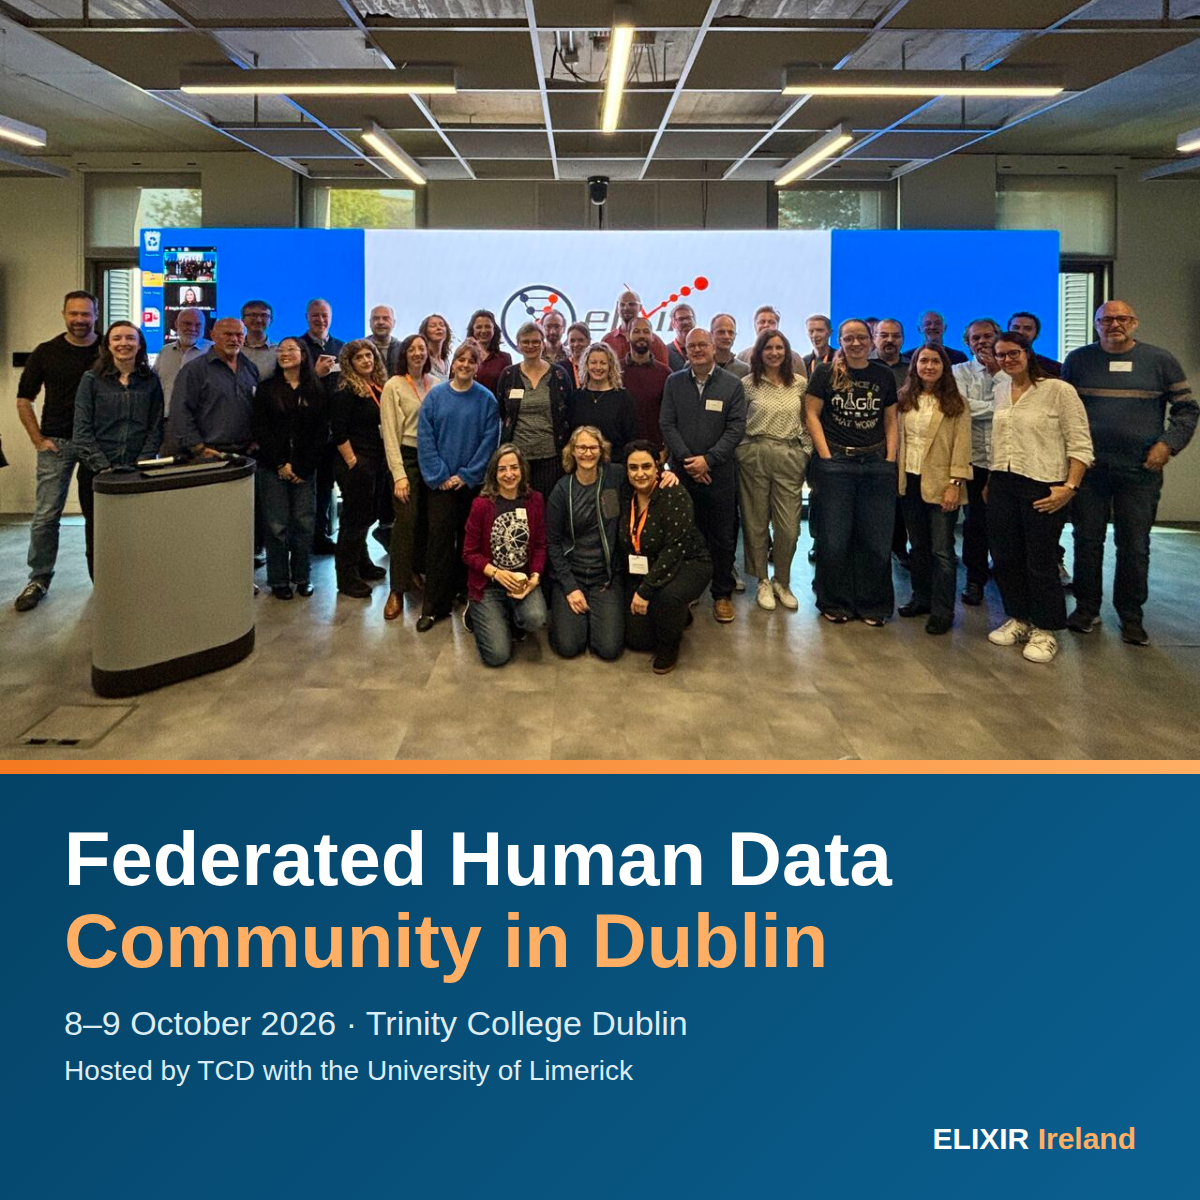
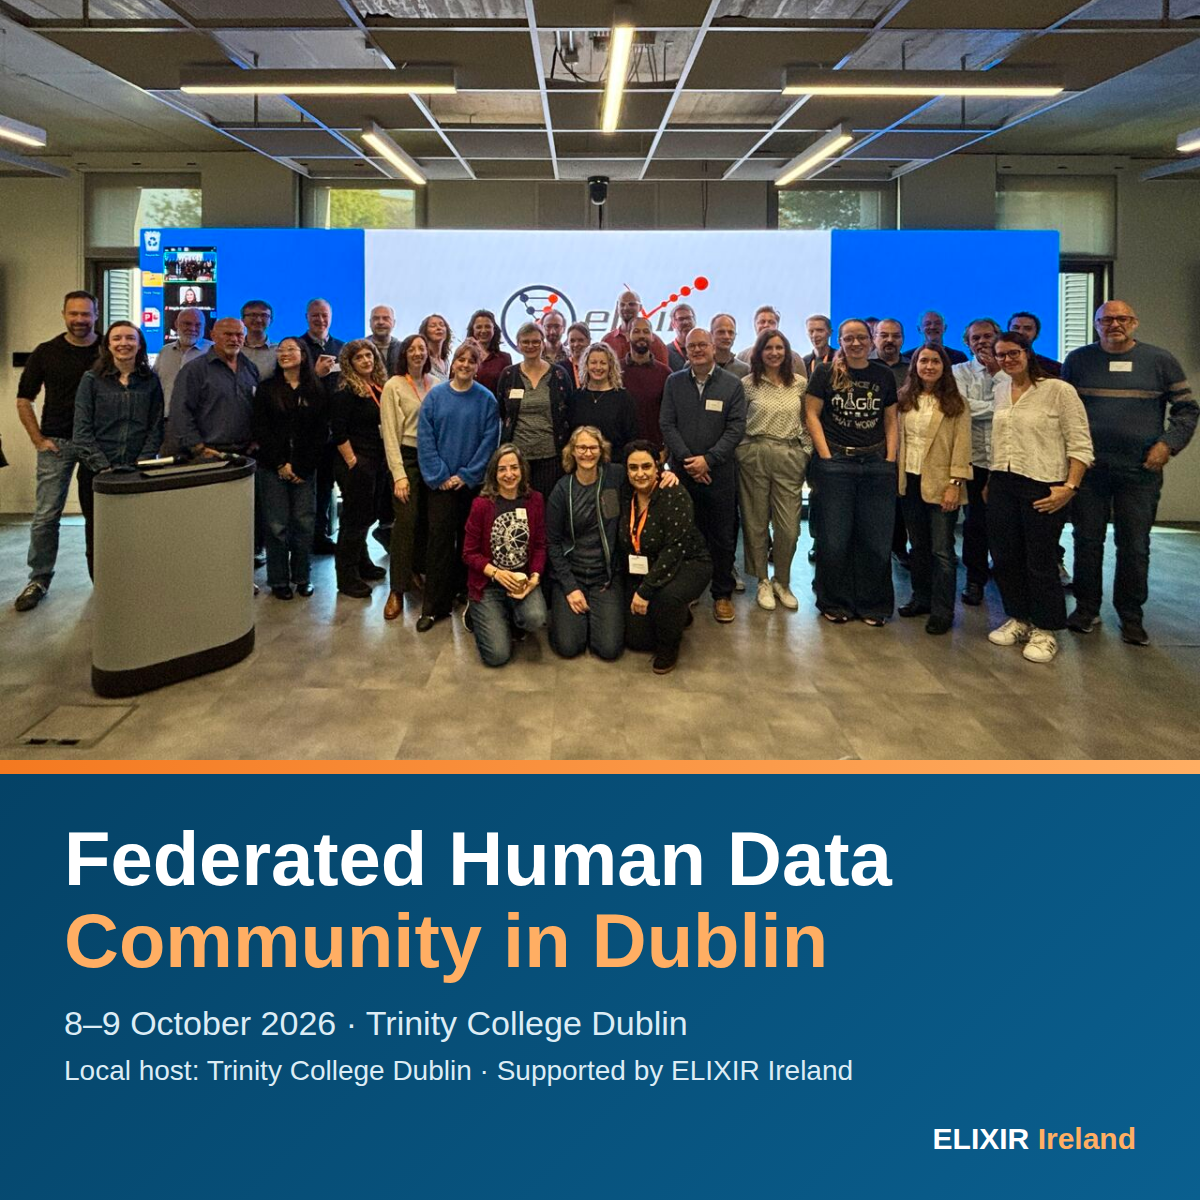
Rebalance FHD Dublin story towards the TCD local host and add inline links
Lead with Máire Ní Leathlobhair as local host, describe UL's role as
coordination support, credit Tricia English, add special thanks to the
Community co-leads, ELIXIR Hub, TCD and UL, and link key items inline.

Changed region(s): [[0.0617, 0.8633, 0.7092, 0.925]]

diff --git a/news/fhd-community-meeting-dublin-2026/index.html b/news/fhd-community-meeting-dublin-2026/index.html
@@ -1,14 +1,14 @@
 ---
 layout: default
 title: ELIXIR Federated Human Data Community meets in Dublin - ELIXIR Ireland
-description: Trinity College Dublin hosted the 2026 ELIXIR Federated Human Data Community meeting on 8–9 October, with Máire Ní Leathlobhair (TCD) as local host and the Culhane lab at the University of Limerick supporting the organisation, in the same week as the final GDI General Assembly in Dublin.
+description: Trinity College Dublin hosted the 2026 ELIXIR Federated Human Data Community meeting on 8–9 October, with Máire Ní Leathlobhair (TCD) as local host and support from ELIXIR Ireland colleagues at the University of Limerick and the ELIXIR Hub, in the same week as the final GDI General Assembly in Dublin.
 ---
 
 <section class="page-hero">
   <div class="page-hero-content">
     <img src="/assets/images/fhd-community-meeting-dublin-2026.jpg" alt="Participants at the ELIXIR Federated Human Data Community meeting at Trinity College Dublin, October 2026" style="max-width: 700px; width: 100%; height: auto; border-radius: 10px; margin-bottom: 1.25rem;" />
     <h1>ELIXIR Federated Human Data Community meets in Dublin</h1>
-    <p class="lead">Trinity College Dublin hosted the 2026 ELIXIR Federated Human Data Community meeting on 8–9 October, a joint effort between Trinity and the University of Limerick that brought Europe's human data community to Ireland.</p>
+    <p class="lead">Trinity College Dublin hosted the 2026 ELIXIR Federated Human Data Community meeting on 8–9 October, bringing Europe's human data community to Ireland with Máire Ní Leathlobhair as local host.</p>
   </div>
 </section>
 
@@ -21,27 +21,26 @@ description: Trinity College Dublin hosted the 2026 ELIXIR Federated Human Data 
 
           <p style="margin-bottom: 0.75rem; color: #666; font-weight: 600;">13 October 2026</p>
 
-          <p>The ELIXIR Federated Human Data (FHD) Community held its 2026 meeting at Trinity Business School, Trinity College Dublin, on 8–9 October, with colleagues from across Europe attending in person and online. The Community works to build a federated ecosystem of interoperable services so that sensitive human data can be shared for research across borders while remaining under national governance.</p>
+          <p>The <a href="https://elixir-europe.org/communities/human-data" target="_blank" rel="noopener">ELIXIR Federated Human Data (FHD) Community</a> held its <a href="https://elixir-europe.org/events/fhdc-meeting-2026" target="_blank" rel="noopener">2026 meeting</a> at Trinity Business School, Trinity College Dublin (TCD), on 8–9 October, with colleagues from across Europe attending in person and online. The Community works to build a federated ecosystem of interoperable services so that sensitive human data can be shared for research across borders while remaining under national governance.</p>
 
-          <p>Over two days, participants shared updates on projects across Europe and internationally, with open discussions on the Federated European Genome-phenome Archive (Federated EGA), compliance in light of the planned Genome European Digital Infrastructure Consortium (Genome EDIC), and funding opportunities.</p>
+          <p>Over two days, participants shared updates on projects across Europe and internationally, with open discussions on the <a href="https://ega-archive.org/about/projects-and-funders/federated-ega/" target="_blank" rel="noopener">Federated European Genome-phenome Archive (Federated EGA)</a>, compliance in light of the planned Genome European Digital Infrastructure Consortium (Genome EDIC), and funding opportunities.</p>
 
           <!-- Hosts -->
-          <h2 style="margin-top: 2.5rem; color: #023452; font-size: 1.3rem; border-top: 2px solid #e9ecef; padding-top: 1.5rem;">Hosted by Trinity, supported by Limerick</h2>
+          <h2 style="margin-top: 2.5rem; color: #023452; font-size: 1.3rem; border-top: 2px solid #e9ecef; padding-top: 1.5rem;">Hosted at Trinity College Dublin, supported by ELIXIR Ireland</h2>
 
-          <p>The meeting was a collaboration between two ELIXIR Ireland member institutions, and both were essential to it.</p>
-
-          <div style="display: grid; grid-template-columns: repeat(auto-fit, minmax(260px, 1fr)); gap: 1.25rem; margin: 1.5rem 0;">
-            <div style="background: #f4f9fc; border-left: 4px solid #023452; padding: 1.25rem 1.5rem; border-radius: 8px;">
-              <p style="margin: 0 0 0.5rem; font-weight: 600; color: #023452;">Local host: Trinity College Dublin</p>
-              <p style="margin: 0;"><strong>Máire Ní Leathlobhair</strong>, Trinity's representative on the ELIXIR Ireland Management Board, was local host, welcoming the Community to Trinity Business School in the heart of Dublin.</p>
-            </div>
-            <div style="background: #fff7f0; border-left: 4px solid #f47920; padding: 1.25rem 1.5rem; border-radius: 8px;">
-              <p style="margin: 0 0 0.5rem; font-weight: 600; color: #023452;">Organisation: University of Limerick</p>
-              <p style="margin: 0;">The lab of <strong>Aedín Culhane</strong>, ELIXIR Ireland Head of Node, supported the organisation of the meeting, with <strong>Katie Cremin</strong> and colleagues looking after the planning and logistics that made the two days run smoothly.</p>
-            </div>
+          <div style="background: #f4f9fc; border-left: 4px solid #023452; padding: 1.25rem 1.5rem; border-radius: 8px; margin: 1.5rem 0;">
+            <p style="margin: 0 0 0.5rem; font-weight: 600; color: #023452;">Local host: Máire Ní Leathlobhair, TCD</p>
+            <p style="margin: 0;"><strong>Máire Ní Leathlobhair</strong>, who recently joined the <a href="/about/">ELIXIR Ireland Management Board</a> as TCD representative, was local host and led the meeting on the ground: securing the venue, managing the bookings and welcoming the Community to Dublin.</p>
           </div>
 
-          <p>Hosting in Dublin also made it easy for Irish researchers and infrastructure teams to take part in person, strengthening the national voice in a Community that shapes how human genomic and health data are shared across Europe. Our thanks to the FHD Community co-leads and to ELIXIR Europe for bringing the meeting to Ireland.</p>
+          <p>Máire worked on the organisation with ELIXIR Ireland colleagues at the University of Limerick (UL), in conjunction with the <a href="https://elixir-europe.org/" target="_blank" rel="noopener">ELIXIR Hub</a>. <strong>Katie Cremin</strong> and <strong>Tricia English</strong>, from the lab of ELIXIR Ireland Head of Node Aedín Culhane, provided coordination support to TCD, including the financial processing of bookings.</p>
+
+          <p>Hosting in Dublin also made it easy for Irish researchers and infrastructure teams to take part in person, strengthening the national voice in a Community that shapes how human genomic and health data are shared across Europe.</p>
+
+          <div style="background: #fff7f0; border-left: 4px solid #f47920; padding: 1.25rem 1.5rem; border-radius: 8px; margin: 1.5rem 0;">
+            <p style="margin: 0 0 0.5rem; font-weight: 600; color: #023452;">Special thanks</p>
+            <p style="margin: 0;">To the FHD Community co-leads, the ELIXIR Hub, and everyone at TCD and UL whose work made the meeting a success.</p>
+          </div>
 
           <!-- Wider week -->
           <h2 style="margin-top: 2.5rem; color: #023452; font-size: 1.3rem; border-top: 2px solid #e9ecef; padding-top: 1.5rem;">A big week for genomic data in Dublin</h2>
@@ -51,11 +50,11 @@ description: Trinity College Dublin hosted the 2026 ELIXIR Federated Human Data 
             <p style="margin: 0; padding: 0.6rem 1rem; font-size: 0.85rem; color: #777; font-style: italic; background: #fafafa;">Participants at the final GDI General Assembly, held in Dublin in the same week. Photo: GDI.</p>
           </div>
 
-          <p>The FHD meeting was timed alongside the final General Assembly of the European <strong>Genomic Data Infrastructure (GDI)</strong> project, which also met in Dublin that week, during Ireland's Presidency of the Council of the European Union. The GDI General Assembly was organised by the GDI project. There, the 1+ Million Genomes (1+MG) infrastructure deployment pillar demonstrated national deployment and connectivity using Genome of Europe data, cancer use case data and synthetic data, and each GDI node country presented its progress towards connecting to the GDI user portal and its aims to March 2027.</p>
+          <p>The FHD meeting was timed alongside the final General Assembly of the <a href="https://gdi.onemilliongenomes.eu/" target="_blank" rel="noopener">European Genomic Data Infrastructure (GDI)</a> project, which also met in Dublin that week, during <a href="https://irish-presidency.consilium.europa.eu/en/" target="_blank" rel="noopener">Ireland's Presidency of the Council of the European Union</a>. The GDI General Assembly was organised by the GDI project. There, the <a href="https://digital-strategy.ec.europa.eu/en/policies/1-million-genomes" target="_blank" rel="noopener">1+ Million Genomes (1+MG)</a> infrastructure deployment pillar demonstrated national deployment and connectivity using Genome of Europe data, cancer use case data and synthetic data, and each GDI node country presented its progress towards connecting to the GDI user portal and its aims to March 2027.</p>
 
-          <p>Ireland takes part through GDI Ireland, co-led by RCSI and UCD with the University of Limerick and Maynooth University, with the Culhane lab at UL working on the deployment of the Irish node.</p>
+          <p>Ireland takes part through GDI Ireland, co-led by RCSI and UCD with UL and Maynooth University, with the Culhane lab at UL working on the deployment of the Irish node.</p>
 
-          <p>The week also saw the publication of the white paper <em>Federated EGA in the European and Global Human Data Ecosystem</em>, which sets out a vision for the Federated EGA and its role in the fast-developing European and global ecosystem for human genomic and health data.</p>
+          <p>The week also saw the publication of the white paper <a href="https://elixir-europe.org/news/FEGA-whitepaper-2026" target="_blank" rel="noopener"><em>Federated EGA in the European and Global Human Data Ecosystem</em></a>, which sets out a vision for the Federated EGA and its role in the fast-developing European and global ecosystem for human genomic and health data.</p>
 
           <div style="background: #f8f9fa; border-left: 4px solid #235C2A; padding: 1.25rem 1.5rem; border-radius: 8px; margin: 2rem 0;">
             <p style="margin: 0;">ELIXIR Ireland is proud to have helped bring the Federated Human Data Community to Dublin, and looks forward to building on the week's conversations with partners across Ireland and Europe.</p>
@@ -63,6 +62,7 @@ description: Trinity College Dublin hosted the 2026 ELIXIR Federated Human Data 
 
           <div style="margin-top: 2rem; display: flex; gap: 1rem; flex-wrap: wrap;">
             <a href="https://elixir-europe.org/communities/human-data" target="_blank" rel="noopener" class="btn btn-primary">ELIXIR FHD Community</a>
+            <a href="https://elixir-europe.org/events/fhdc-meeting-2026" target="_blank" rel="noopener" class="btn btn-outline">Meeting page</a>
             <a href="https://elixir-europe.org/news/FEGA-whitepaper-2026" target="_blank" rel="noopener" class="btn btn-outline">Federated EGA white paper</a>
             <a href="https://gdi.onemilliongenomes.eu/" target="_blank" rel="noopener" class="btn btn-outline">GDI project</a>
             <a href="/news/" class="btn btn-outline">Back to News</a>

diff --git a/assets/js/news_items.js b/assets/js/news_items.js
@@ -2,7 +2,7 @@ const newsItems = [
   {
     title: "ELIXIR Federated Human Data Community meets in Dublin",
     date: "2026-10-13",
-    summary: "Trinity College Dublin hosted the 2026 ELIXIR Federated Human Data Community meeting on 8–9 October, with Máire Ní Leathlobhair (TCD) as local host and the Culhane lab at the University of Limerick supporting the organisation. It took place in the same week as the final GDI General Assembly in Dublin.",
+    summary: "Trinity College Dublin hosted the 2026 ELIXIR Federated Human Data Community meeting on 8–9 October, with Máire Ní Leathlobhair (TCD) as local host and support from ELIXIR Ireland colleagues at the University of Limerick (UL) and the ELIXIR Hub. It took place in the same week as the final GDI General Assembly in Dublin.",
     image: "/assets/images/fhd-community-meeting-dublin-2026.jpg",
     link: "/news/fhd-community-meeting-dublin-2026/"
   },
